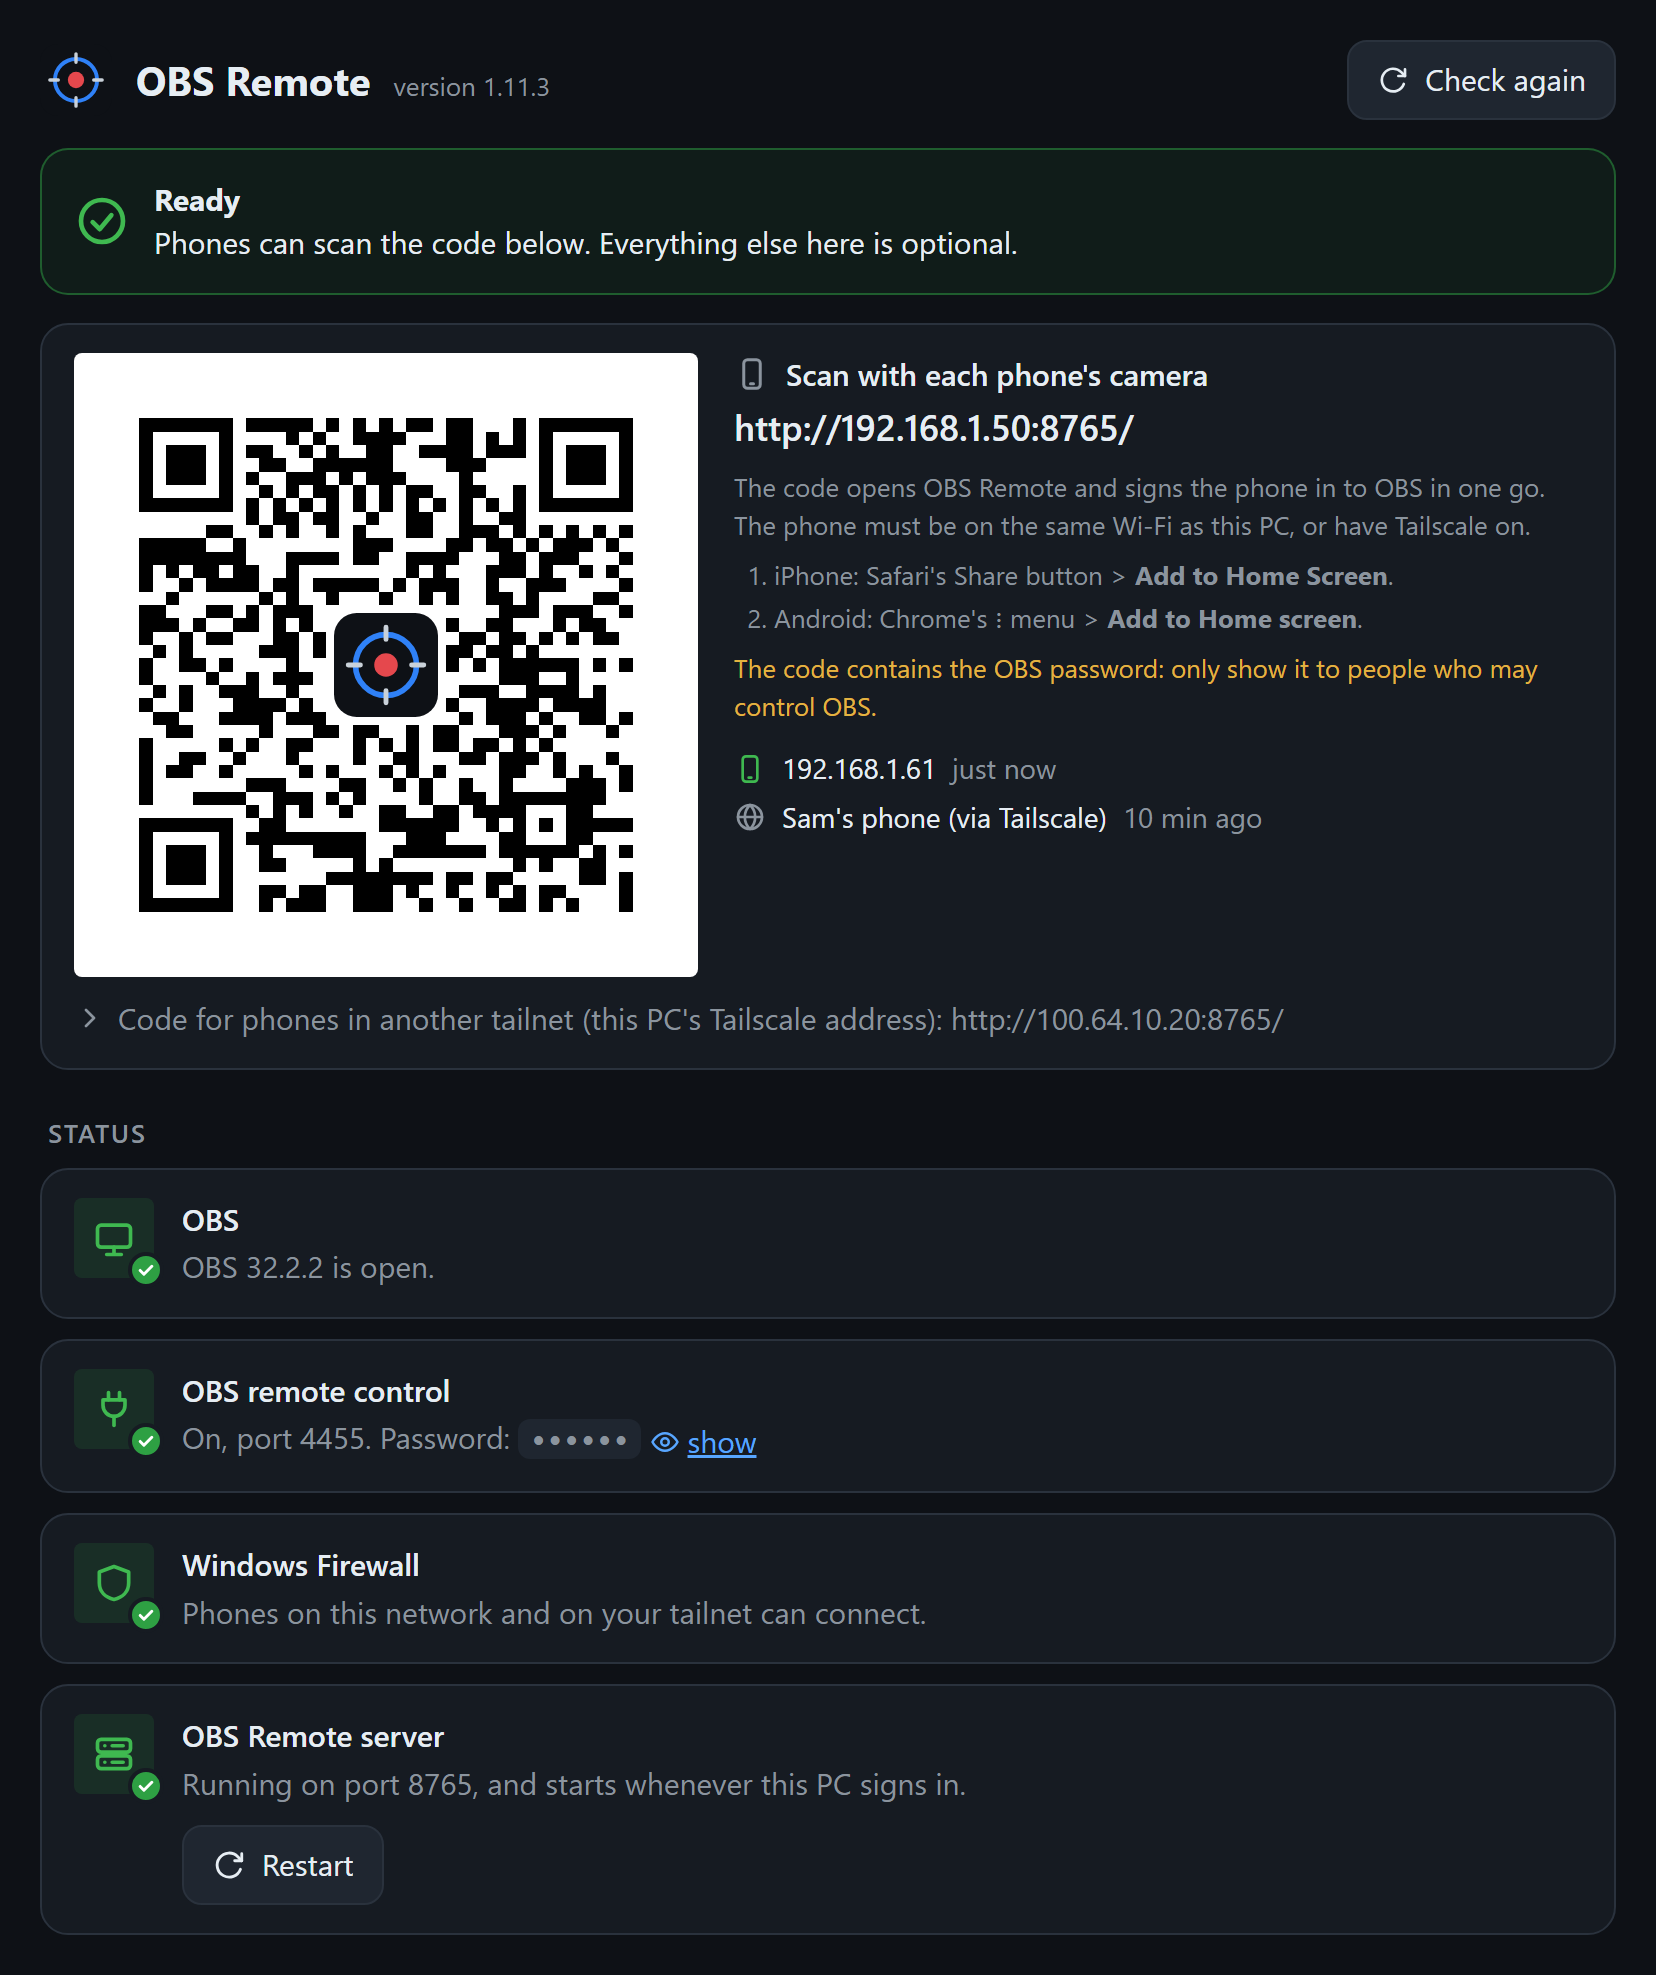
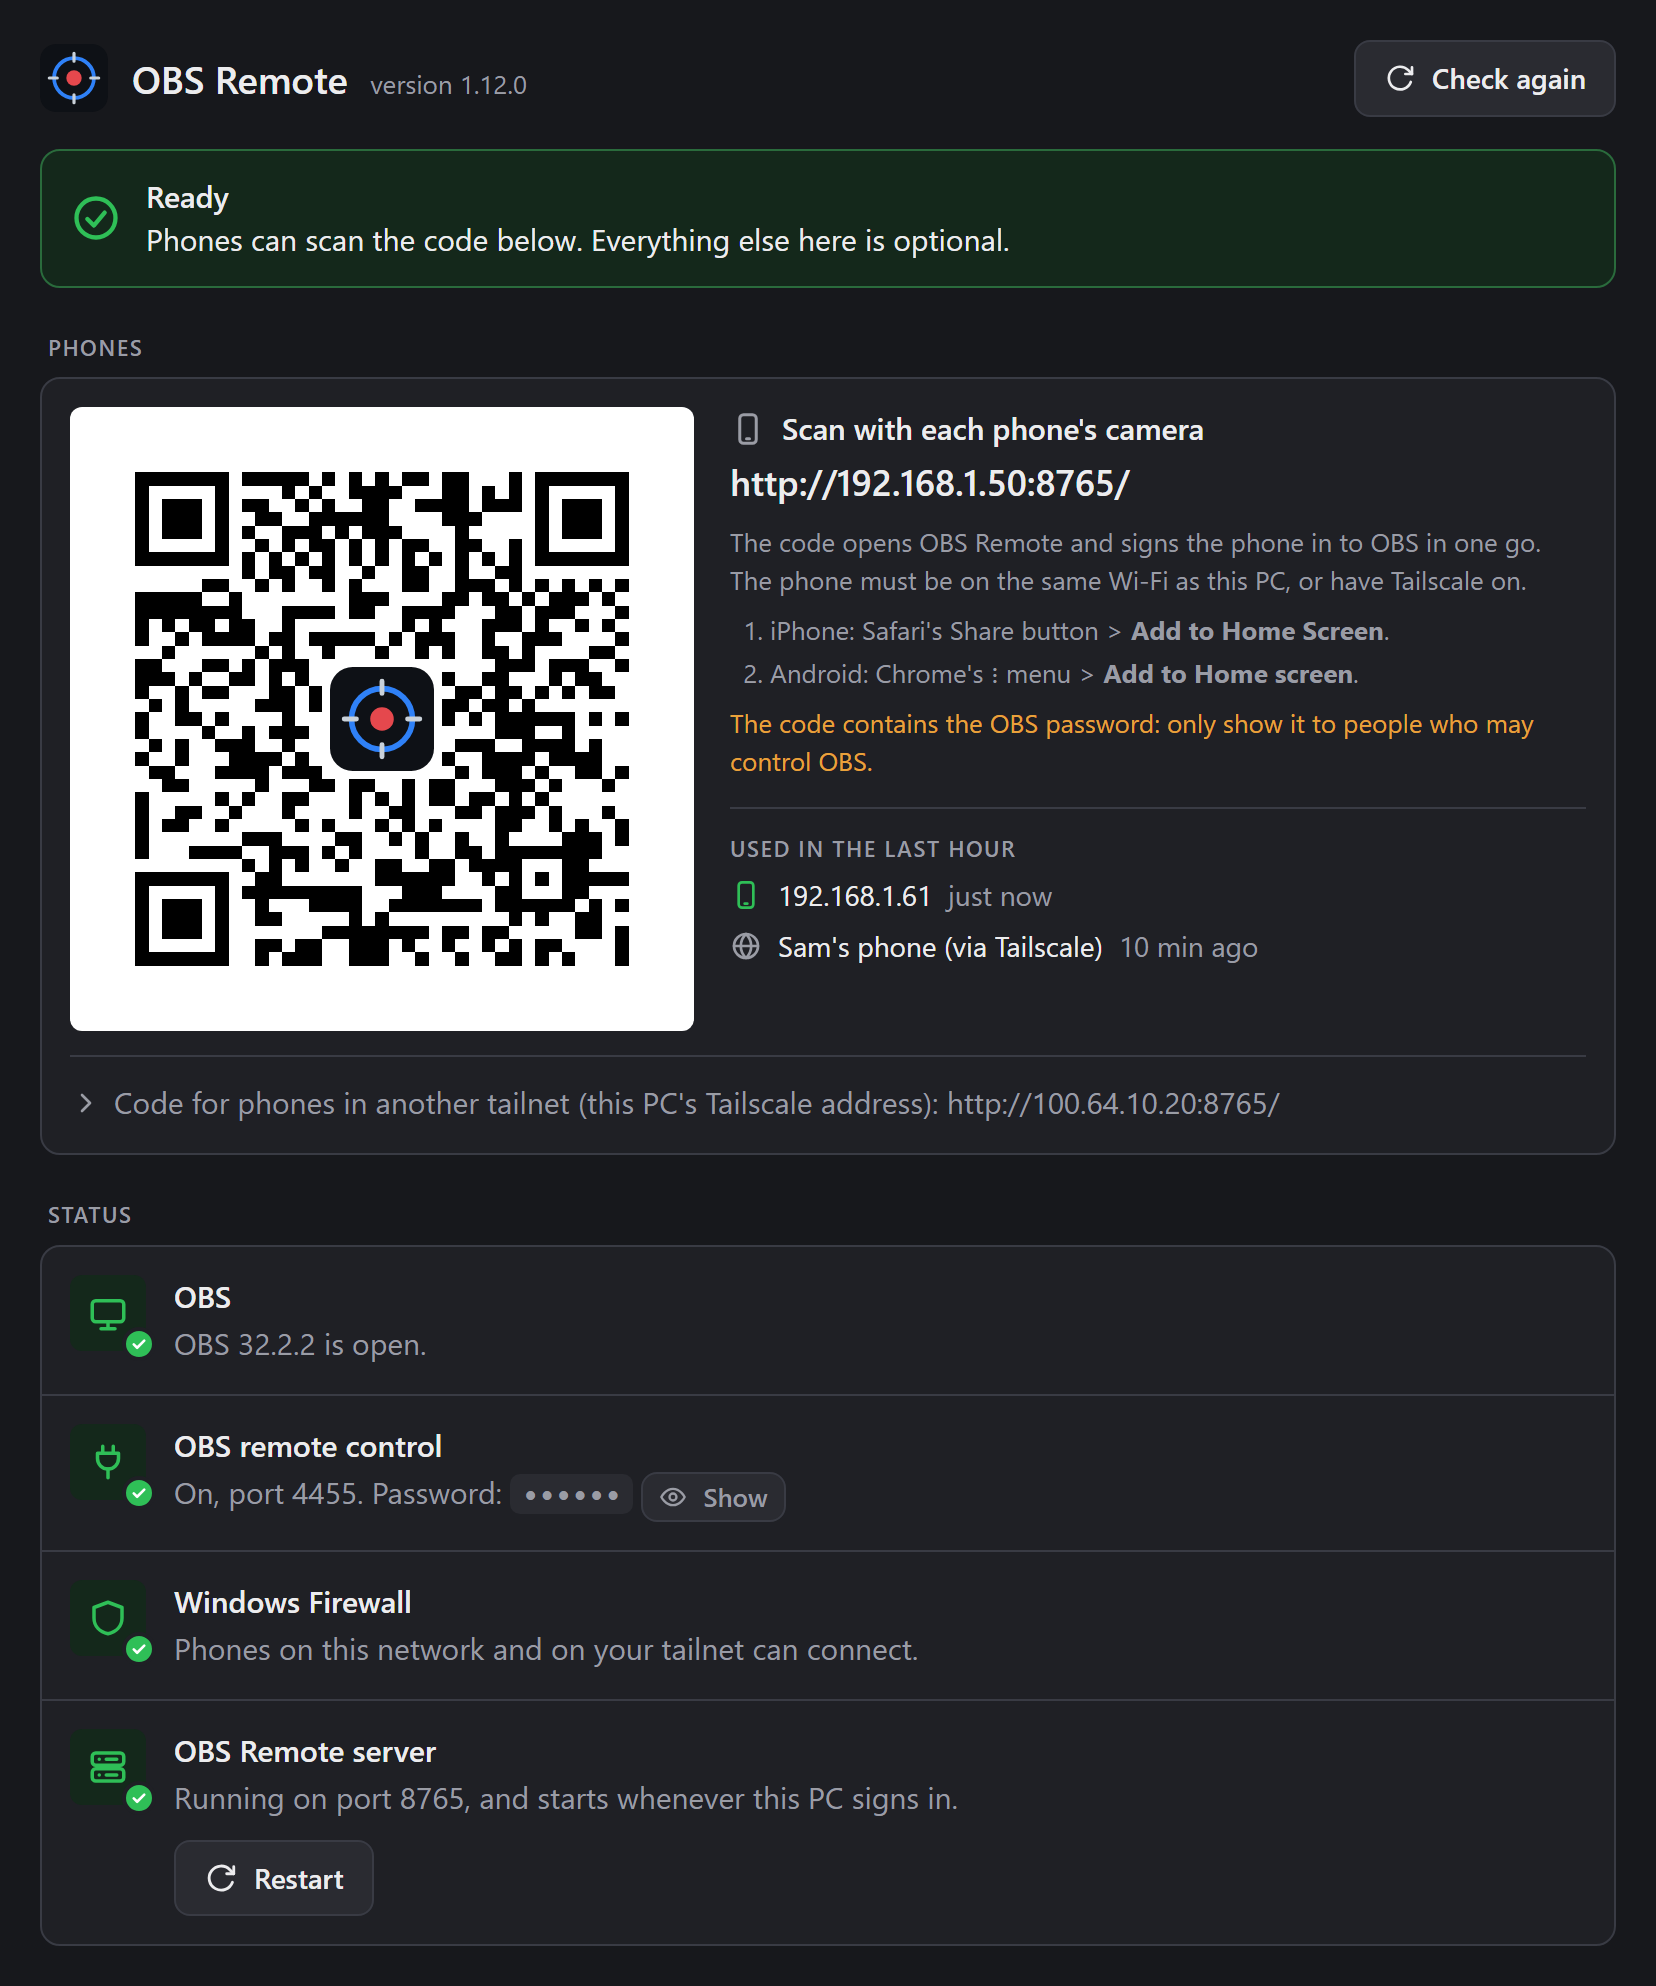
Setup window screenshots for obs-remote 1.12.1: the new look
make.py's window heights follow the new layout, so each shot still ends just before the Optional section.

diff --git a/tools/make.py b/tools/make.py
@@ -159,8 +159,8 @@ def main():
     phone(os.path.join(OUT, "camera.png"), 840, "?tab=cam")
     # installer.png keeps its name (older obs-remote READMEs link to it); since 1.11 it shows the setup window
     # Heights end each shot in the gap before the "Optional" heading.
-    framed(os.path.join(OUT, "installer.png"), setup_page(), 880, 988)
-    framed(os.path.join(OUT, "setup-first-run.png"), setup_page(first_run=True), 880, 712)
+    framed(os.path.join(OUT, "installer.png"), setup_page(), 880, 990)
+    framed(os.path.join(OUT, "setup-first-run.png"), setup_page(first_run=True), 880, 676)
 
 
 if __name__ == "__main__":
